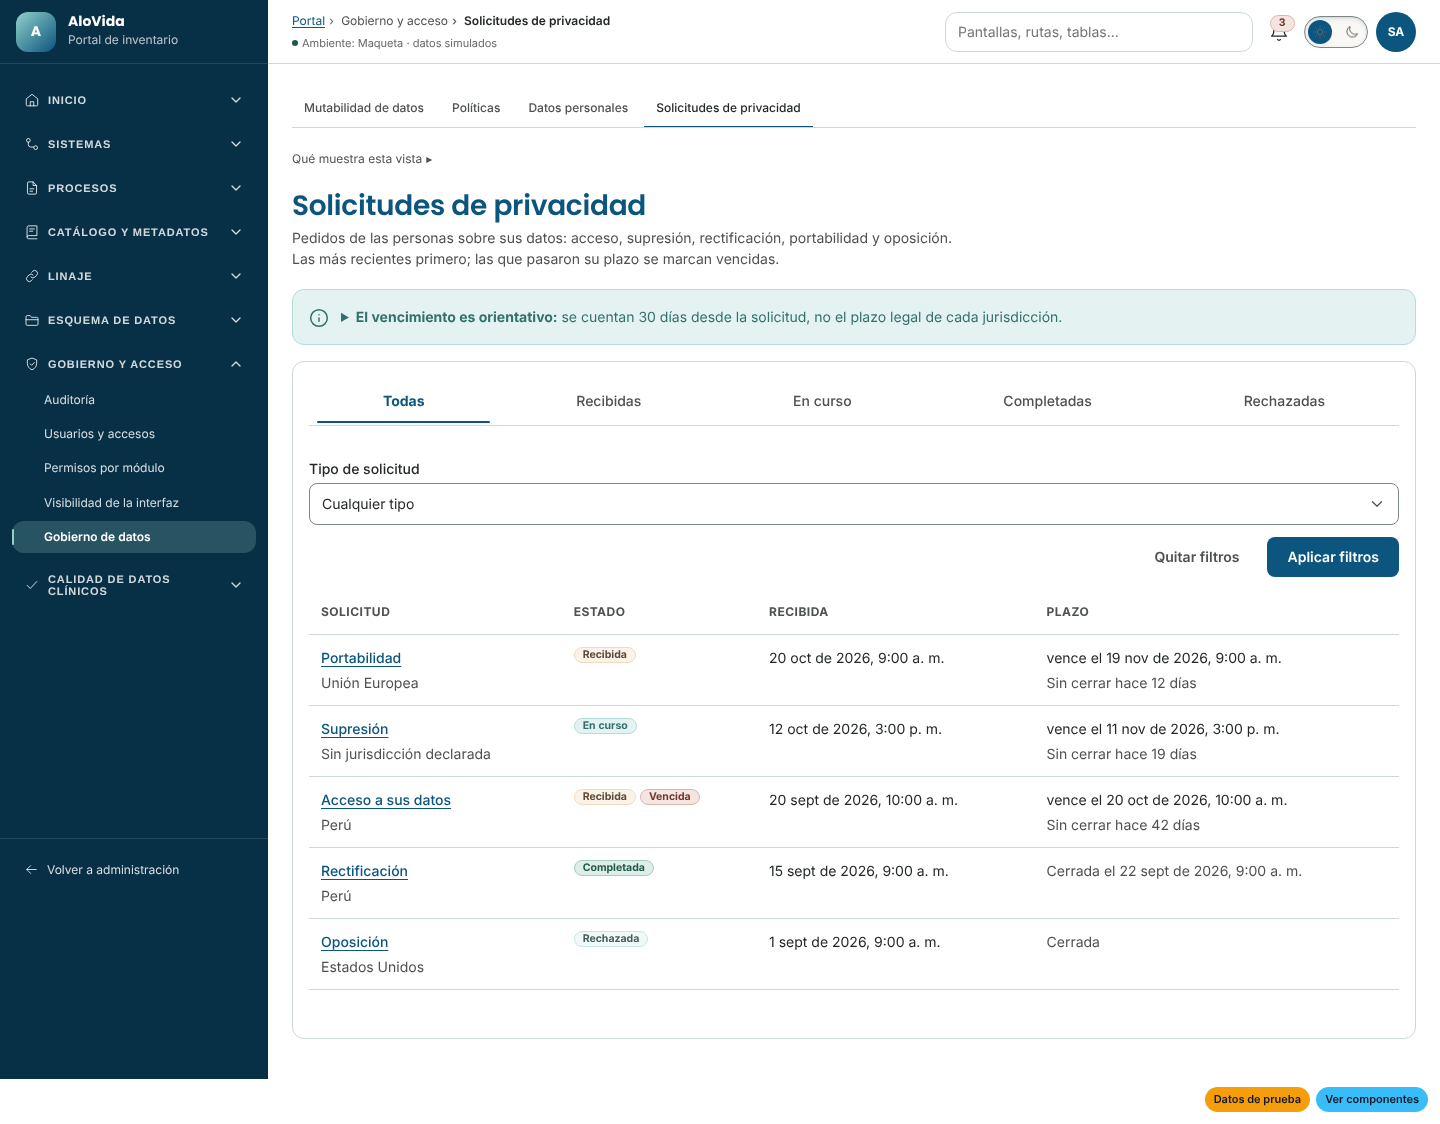
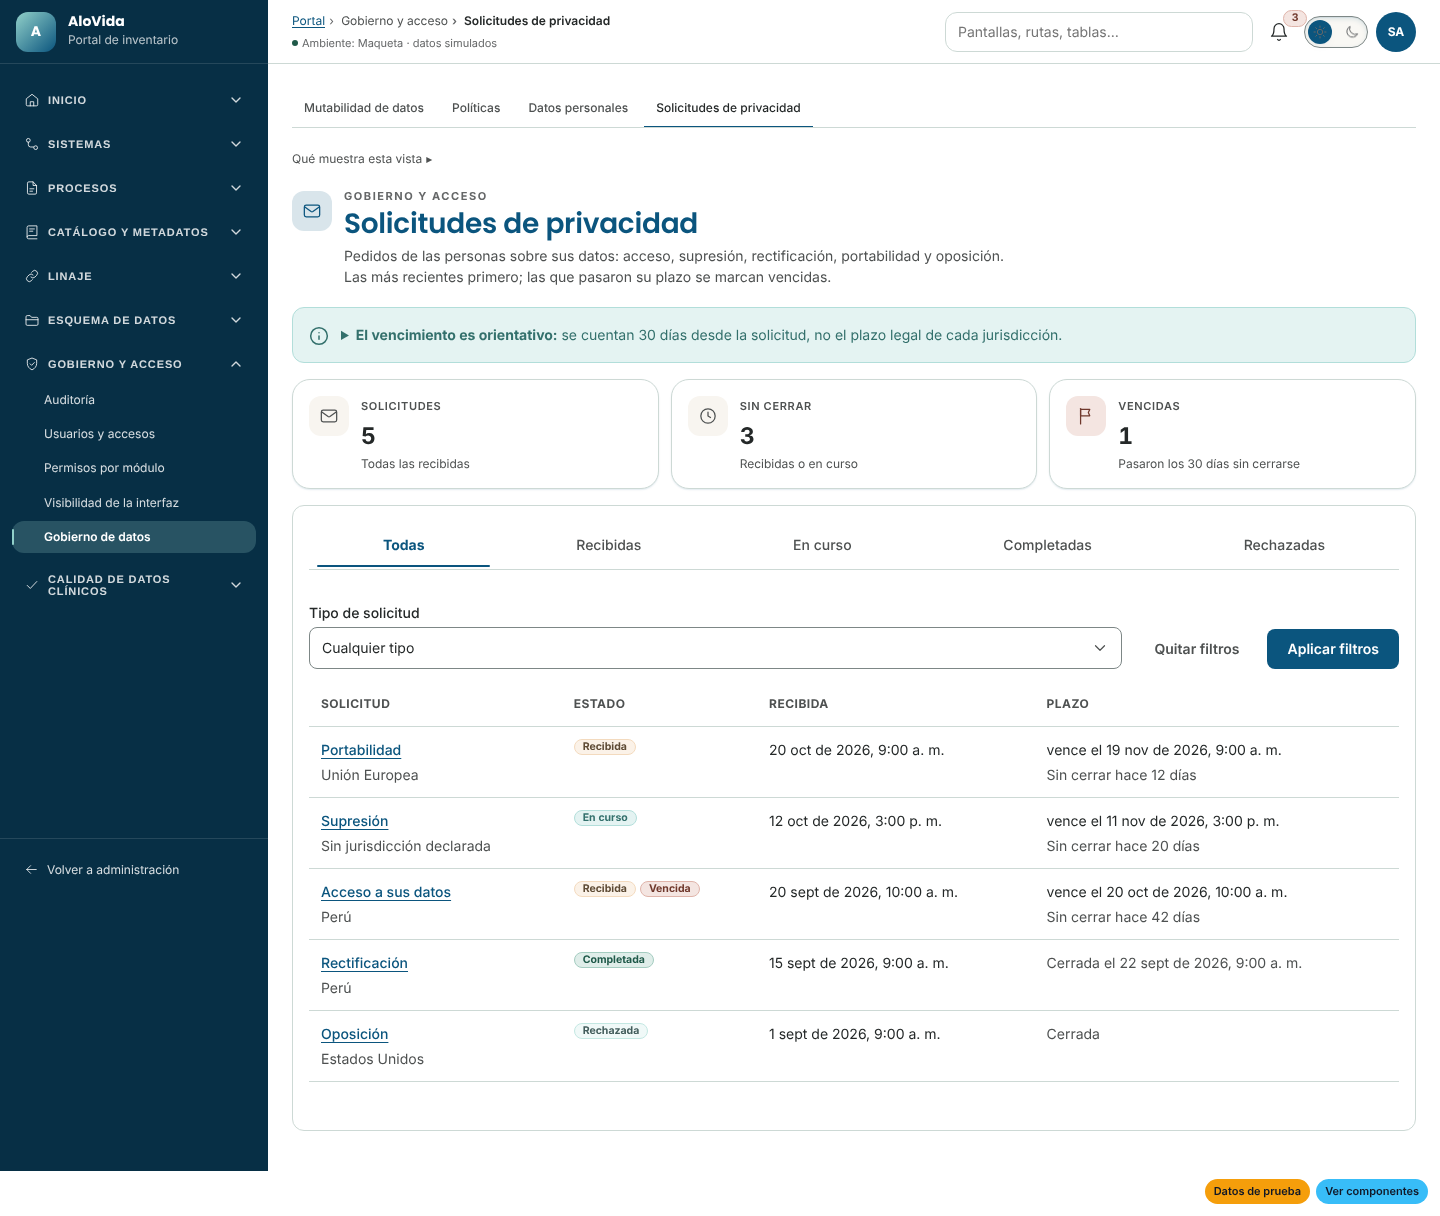
fix(portal): solicitudes de privacidad — cifras (total, sin cerrar, vencidas) sólo con la lista completa en una página; captura de vacío y de la ficha (revisión visual 1)
Claude-Session: https://claude.ai/code/session_015srVoda962hL6gd5RrH9vw

diff --git a/src/app/features/admin/portal/privacy/privacy-requests-page.ts b/src/app/features/admin/portal/privacy/privacy-requests-page.ts
@@ -17,6 +17,7 @@ import type { EmptyViewState } from '../../../../core/view-state/view-state.type
 import { Badge } from '../../../../shared/components/atoms/badge/badge';
 import { Link } from '../../../../shared/components/atoms/link/link';
 import { Alert } from '../../../../shared/components/molecules/alert/alert';
+import { MetricCard } from '../../../../shared/components/molecules/metric-card/metric-card';
 import { Card } from '../../../../shared/components/molecules/card/card';
 import { Tab } from '../../../../shared/components/molecules/tabs/tab/tab';
 import { Tabs } from '../../../../shared/components/molecules/tabs/tabs';
@@ -53,7 +54,7 @@ const SCREEN = portalUrl('governance/privacy-requests');
  */
 @Component({
   selector: 'app-portal-privacy-requests-page',
-  imports: [NgTemplateOutlet, RouterLink, Badge, Link, Alert, Card, Tab, Tabs, DataTable, PageHeader, FilterForm],
+  imports: [NgTemplateOutlet, RouterLink, Badge, Link, Alert, Card, MetricCard, Tab, Tabs, DataTable, PageHeader, FilterForm],
   templateUrl: './privacy-requests-page.html',
   styleUrl: './privacy-requests-page.css',
   changeDetection: ChangeDetectionStrategy.OnPush,
@@ -80,6 +81,21 @@ export class PrivacyRequestsPage {
     (cursor) => this.client.list({ ...privacyQuery(this.values()), limit: PAGE_SIZE, ...(cursor ? { cursor } : {}) }),
     () => this.whenEmpty(),
   );
+
+  /**
+   * Cifras de arriba: sólo en «Todas», sin filtro y cuando la respuesta ya pedida trae todas las
+   * solicitudes (una sola página, sin cursor siguiente). Si no, no se muestran: la lectura no
+   * entrega conteos y contar una página sería inventar.
+   */
+  protected readonly metrics = computed(() => {
+    const s = this.list.state();
+    const c = this.list.cursor();
+    if (this.tabIndex() !== 0 || this.values().type !== '') return null;
+    if (s.status !== 'ready' || c.nextCursor !== null || c.prevCursor !== null) return null;
+    const rows = s.data;
+    const open = rows.filter((r) => r.status === 'RECEIVED' || r.status === 'IN_PROGRESS');
+    return { total: rows.length, open: open.length, overdue: rows.filter((r) => r.overdue).length };
+  });
 
   private readonly requestCell = viewChild.required<TemplateRef<{ $implicit: PrivacyRequest }>>('requestCell');
   private readonly stateCell = viewChild.required<TemplateRef<{ $implicit: PrivacyRequest }>>('stateCell');

diff --git a/src/app/features/admin/portal/privacy/privacy-requests-page.html b/src/app/features/admin/portal/privacy/privacy-requests-page.html
@@ -19,6 +19,20 @@
   </details>
 </app-alert>
 
+@if (metrics(); as m) {
+  <section class="privacy__metrics" aria-label="Resumen de las solicitudes" data-testid="portal-privacy-metrics">
+    <app-metric-card label="Solicitudes" icon="mail" [value]="m.total" hint="Todas las recibidas" />
+    <app-metric-card label="Sin cerrar" icon="clock" [value]="m.open" hint="Recibidas o en curso" />
+    <app-metric-card
+      label="Vencidas"
+      icon="flag"
+      [value]="m.overdue"
+      hint="Pasaron los 30 días sin cerrarse"
+      [tone]="m.overdue > 0 ? 'error' : 'success'"
+    />
+  </section>
+}
+
 <app-card class="privacy__card" variant="outlined" padding="md">
   <app-tabs [selectedIndex]="tabIndex()" (selectedIndexChange)="selectTab($event)">
     <app-tab [label]="tabLabels.all">

diff --git a/src/app/features/admin/portal/privacy/privacy-requests-page.css b/src/app/features/admin/portal/privacy/privacy-requests-page.css
@@ -51,3 +51,28 @@
   flex-wrap: wrap;
   gap: var(--sp-1);
 }
+
+/* Tres cifras: la primera a lo ancho en el teléfono, en una fila desde la tableta. */
+.privacy__metrics {
+  display: grid;
+  grid-template-columns: repeat(2, minmax(0, 1fr));
+  gap: var(--sp-3);
+}
+
+.privacy__metrics > :first-child {
+  grid-column: 1 / -1;
+}
+
+@media (min-width: 650px) {
+  .privacy__metrics {
+    grid-template-columns: repeat(3, minmax(0, 1fr));
+  }
+
+  .privacy__metrics > :first-child {
+    grid-column: auto;
+  }
+}
+
+.privacy__metrics app-metric-card {
+  min-inline-size: 0;
+}
